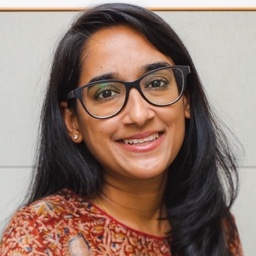
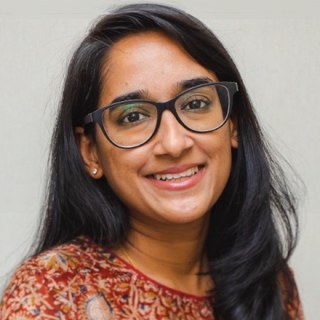
Team page: clean Archana's photo background, larger photos, fix Mashnoon's name
- Re-crop Archana's headshot from pi.jpg at 320px and remove the wood trim and
  wall panel seam behind her
- Enlarge member photos from 120px to 150px
- Rename Mashnoon Sakib Alam to Mashnoon Alam Sakib (caption, alt, filename)
- Sort the first row of members alphabetically by first name

diff --git a/team.html b/team.html
@@ -82,16 +82,6 @@
       <div class="team__inner">
         <div class="team__grid">
           <div class="member">
-            <img class="member__photo" src="assets/team/mashnoon-sakib-alam.jpg" alt="Mashnoon Sakib Alam" loading="lazy">
-            <p class="member__name">Mashnoon Sakib Alam</p>
-            <p class="member__role">SCGSR Fellow</p>
-          </div>
-          <div class="member">
-            <img class="member__photo" src="assets/team/laisi-chen.jpg" alt="Laisi Chen" loading="lazy">
-            <p class="member__name">Laisi Chen</p>
-            <p class="member__role">Postdoc</p>
-          </div>
-          <div class="member">
             <img class="member__photo" src="assets/team/ajit-dash.jpg" alt="Ajit Dash" loading="lazy">
             <p class="member__name">Ajit Dash</p>
             <p class="member__role">Postdoc</p>
@@ -100,6 +90,16 @@
             <img class="member__photo" src="assets/team/garima-gupta.jpg" alt="Garima Gupta" loading="lazy">
             <p class="member__name">Garima Gupta</p>
             <p class="member__role">Postdoc</p>
+          </div>
+          <div class="member">
+            <img class="member__photo" src="assets/team/laisi-chen.jpg" alt="Laisi Chen" loading="lazy">
+            <p class="member__name">Laisi Chen</p>
+            <p class="member__role">Postdoc</p>
+          </div>
+          <div class="member">
+            <img class="member__photo" src="assets/team/mashnoon-alam-sakib.jpg" alt="Mashnoon Alam Sakib" loading="lazy">
+            <p class="member__name">Mashnoon Alam Sakib</p>
+            <p class="member__role">SCGSR Fellow</p>
           </div>
           <div class="member">
             <img class="member__photo" src="assets/team/aaditya-jagtap.jpg" alt="Aaditya Jagtap" loading="lazy">

diff --git a/css/styles.css b/css/styles.css
@@ -542,7 +542,7 @@ html:not(.js) .ticker { display: none; }
 }
 .member { flex: 0 0 200px; text-align: center; }
 .member__photo {
-  width: 120px; height: 120px;
+  width: 150px; height: 150px;
   margin: 0 auto 18px;
   background: repeating-linear-gradient(45deg, #e4dfd3 0 8px, #ece8de 8px 16px);
   font-size: 10px;
